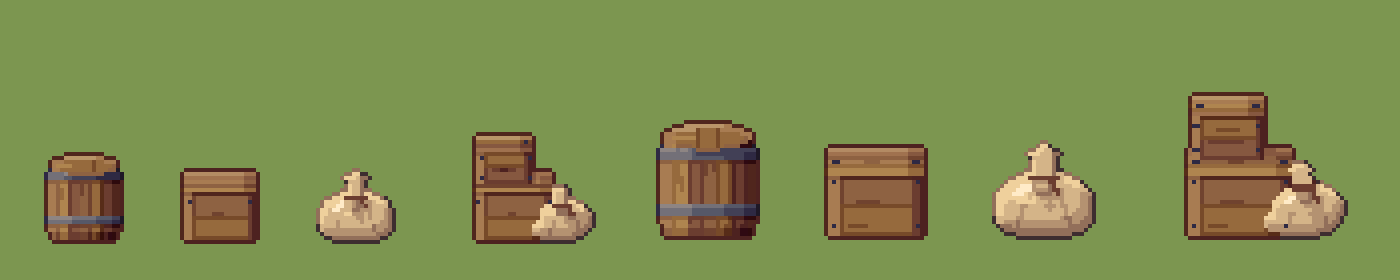
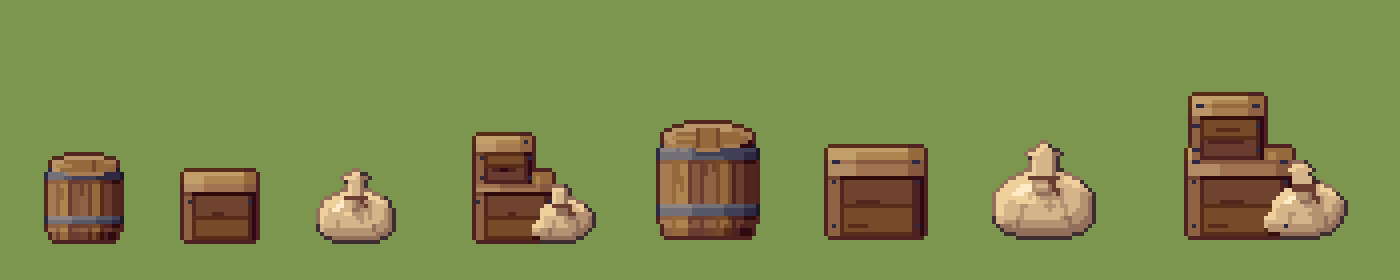
props_stores: the crate's lid as a lighter plane, a lighter ring on the barrel's rim, pieces kept apart (A's sign-off, 21 Oct)
The crate's lid is a plane seen from above in our 3/4 view: lighter than the front
(timber_warm 4 against 2), two boards across with one seam, lit at its back edge and
west end, its east end turned from the light; the front and battens step darker so
the plane reads. The barrel's rim carries one lighter ring. PIECES and pieces()
render each store's pieces (lid, hoops, staves; lid, front, battens; neck, body) alone
on the whole sprite's canvas for a later break animation. The swatch is re-rendered
on main's kit (r7 to r9); check:kit passes, golden pixel-identical.

Claude-Session: https://claude.ai/code/session_01JV7vRMf8yFv31gx5SazCER

diff --git a/scripts/art/native/props_stores.py b/scripts/art/native/props_stores.py
@@ -90,6 +90,10 @@ def _barrel(sp, cx=0.0, base=0.0, w=22.0, h=28.0, seed=0, z=1.0, tag=''):
     # the lid seen from above inside its rim: three boards, the rim lit at the back
     rim = g.ellipse(cx, top + lid_ry, rx + belly * 0.2, lid_ry)
     sp.add(f'rim{tag}', rim, 'timber', base=4, lo=2, hi=5, z=z + 0.3, flat=True)
+    # the rim's top edge as one lighter ring all round (A's sign-off note, 21 Oct), turned from
+    # the light only at its east end
+    ring = rim & ~g.ellipse(cx, top + lid_ry + 0.3, rx - 2.2, lid_ry - 1.1)
+    sp.mark(f'rim{tag}', ring & (g.X < cx + rx * 0.55), 1)
     lid = g.ellipse(cx, top + lid_ry + 0.3, rx - 2.2, lid_ry - 1.1)
     ln = f'lid{tag}'
     sp.add(ln, lid, 'timber_warm', base=3, lo=1, hi=4, z=z + 0.4, flat=True)
@@ -111,7 +115,7 @@ def _crate(sp, cx=0.0, base=0.0, w=24.0, h=22.0, seed=0, z=1.0, tag='', lid_frac
     # the front: two planks with a seam, grain, the bottom board darker
     fn = f'front{tag}'
     front = g.rect(x0, lid_b, x1, base)
-    p = sp.add(fn, front, 'timber', base=3, lo=0, hi=4, z=z, flat=True)
+    p = sp.add(fn, front, 'timber', base=2, lo=0, hi=3, z=z, flat=True)
     mid = (lid_b + base) / 2
     fam = np.where(g.Y < mid, WOOD[seed % 3], WOOD[(seed + 1) % 3]).astype(object)
     p.famarr = fam
@@ -124,23 +128,21 @@ def _crate(sp, cx=0.0, base=0.0, w=24.0, h=22.0, seed=0, z=1.0, tag='', lid_frac
         sp.mark(fn, g.rect(gx, gy, gx + rng.uniform(3, 6), gy + 0.8), -1)
     # corner battens: the west one lit, the east one turned from the light
     bw = max(2.2, w * 0.12)
-    sp.add(f'batW{tag}', g.rect(x0, lid_b, x0 + bw, base), 'timber', base=4, lo=2, hi=5, z=z + 0.1, flat=True)
-    sp.add(f'batE{tag}', g.rect(x1 - bw, lid_b, x1, base), 'timber_cool', base=2, lo=0, hi=3, z=z + 0.1, flat=True)
+    sp.add(f'batW{tag}', g.rect(x0, lid_b, x0 + bw, base), 'timber', base=3, lo=2, hi=4, z=z + 0.1, flat=True)
+    sp.add(f'batE{tag}', g.rect(x1 - bw, lid_b, x1, base), 'timber_cool', base=1, lo=0, hi=2, z=z + 0.1, flat=True)
     sp.mark(f'batE{tag}', g.rect(x1 - 0.9, lid_b, x1, base), -1)
-    # the lid: three boards with gaps, its front edge lit, grain
+    # the lid, a plane seen from above in our 3/4 view (A's sign-off note, 21 Oct: like the hut's
+    # table): lighter than the front, two boards running across with one seam, lit from the
+    # upper left (its west end and back edge brightest), its east end turned from the light
     ln = f'lidtop{tag}'
     lid = g.rect(x0, top, x1, lid_b)
-    p = sp.add(ln, lid, 'timber', base=4, lo=2, hi=5, z=z + 0.2, flat=True)
+    p = sp.add(ln, lid, 'timber_warm', base=4, lo=3, hi=5, z=z + 0.2, flat=True)
     lh = lid_b - top
-    fam = np.full(lid.shape, 'timber', dtype=object)
-    for k in range(3):
-        sel = (g.Y >= top + lh * k / 3) & (g.Y < top + lh * (k + 1) / 3)
-        fam[sel] = WOOD[(k + seed + 2) % 3]
+    fam = np.where(g.Y < top + lh / 2, 'timber_warm', WOOD[(seed + 2) % 3]).astype(object)
     p.famarr = fam
-    for k in (1, 2):
-        yy = top + lh * k / 3
-        sp.mark(ln, g.rect(x0, yy - 0.4, x1, yy + 0.4), -1)
-    sp.mark(ln, g.rect(x0, top, x1, top + 0.9), 1)
+    yy = top + lh / 2
+    sp.mark(ln, g.rect(x0 + 1, yy - 0.45, x1 - 1, yy + 0.45), -1)
+    sp.mark(ln, g.rect(x0, top, x1 - 4, top + 1.0) | g.rect(x0, top, x0 + w * 0.3, lid_b), 1)
     sp.mark(ln, g.rect(x1 - 4, top, x1, lid_b), -1)
     gx = rng.uniform(x0 + 3, x1 - 8)
     sp.mark(ln, g.rect(gx, top + lh * 0.45, gx + 4, top + lh * 0.45 + 0.7), -1)
@@ -214,6 +216,34 @@ def crate_stack4(d, seed=0):
 
 
 KINDS = {'barrel': barrel4, 'crate': crate4, 'sack': sack4, 'crate_stack': crate_stack4}
+
+# Each store keeps its pieces apart (A, 21 Oct: barrels, crates and sacks will likely break in
+# fights): every part is named by its piece, so a break can lift the lid, spring the hoops and
+# split the staves. `pieces` renders each piece alone on the same canvas (no frames yet).
+PIECES = {
+    'barrel': {'lid': ('lid', 'rim'), 'hoops': ('hoop',), 'staves': ('staves',)},
+    'crate': {'lid': ('lidtop',), 'front': ('front',), 'battens': ('batW', 'batE')},
+    'sack': {'neck': ('neck', 'cord'), 'body': ('sack',)},
+}
+_BUILD = {
+    'barrel': lambda d, seed: (_sprite(d, 34, 36, 17, 3), lambda sp: _barrel(sp, 0, 0, 22, 28, seed)),
+    'crate': lambda d, seed: (_sprite(d, 34, 30, 17, 3), lambda sp: _crate(sp, 0, 0, 24, 22, seed)),
+    'sack': lambda d, seed: (_sprite(d, 34, 30, 17, 3), lambda sp: _sack(sp, 0, 0, 24, 22, seed)),
+}
+
+
+def pieces(kind: str, d: float, seed: int = 0) -> dict:
+    """{piece: RGBA image} for one store, each piece drawn alone on the whole sprite's canvas
+    (same anchor), so the pieces lie exactly where the whole store has them."""
+    out = {}
+    for piece, prefixes in PIECES[kind].items():
+        sp, draw = _BUILD[kind](d, seed)
+        draw(sp)
+        keep = [pt for pt in sp.parts if pt.name.startswith(prefixes)]
+        sp.parts = keep
+        sp.inkmarks = []
+        out[piece] = sp.render()
+    return out
 
 
 # ------------------------------------------------------------------------------------------------
